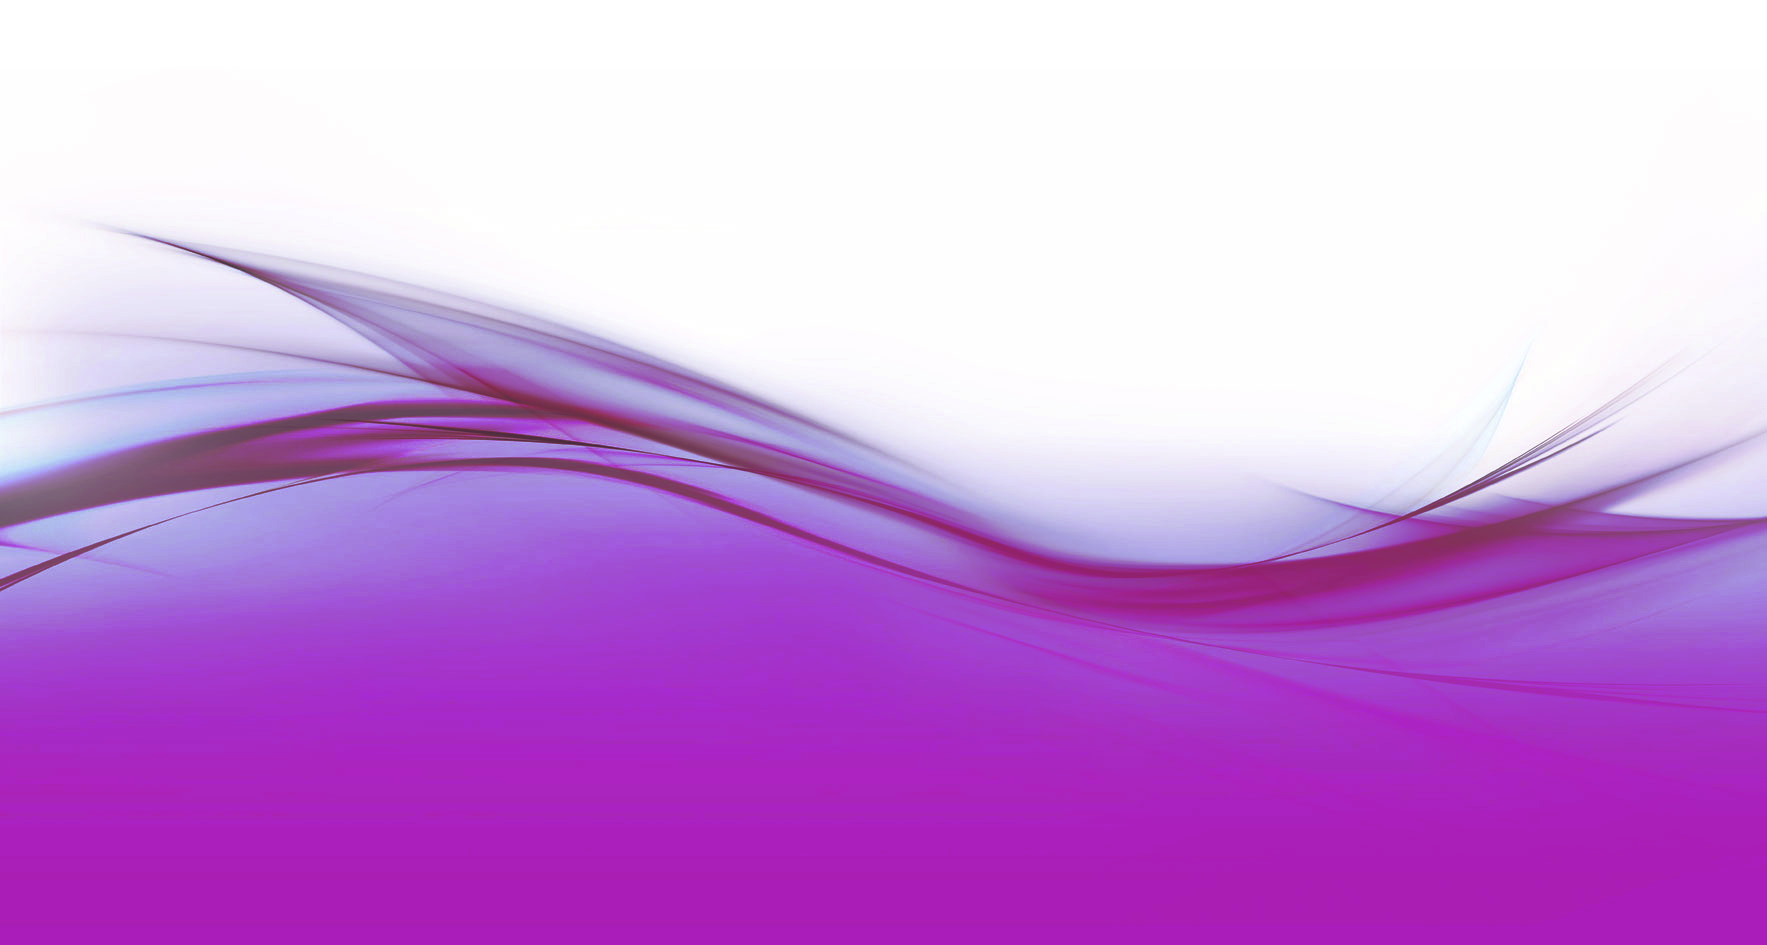
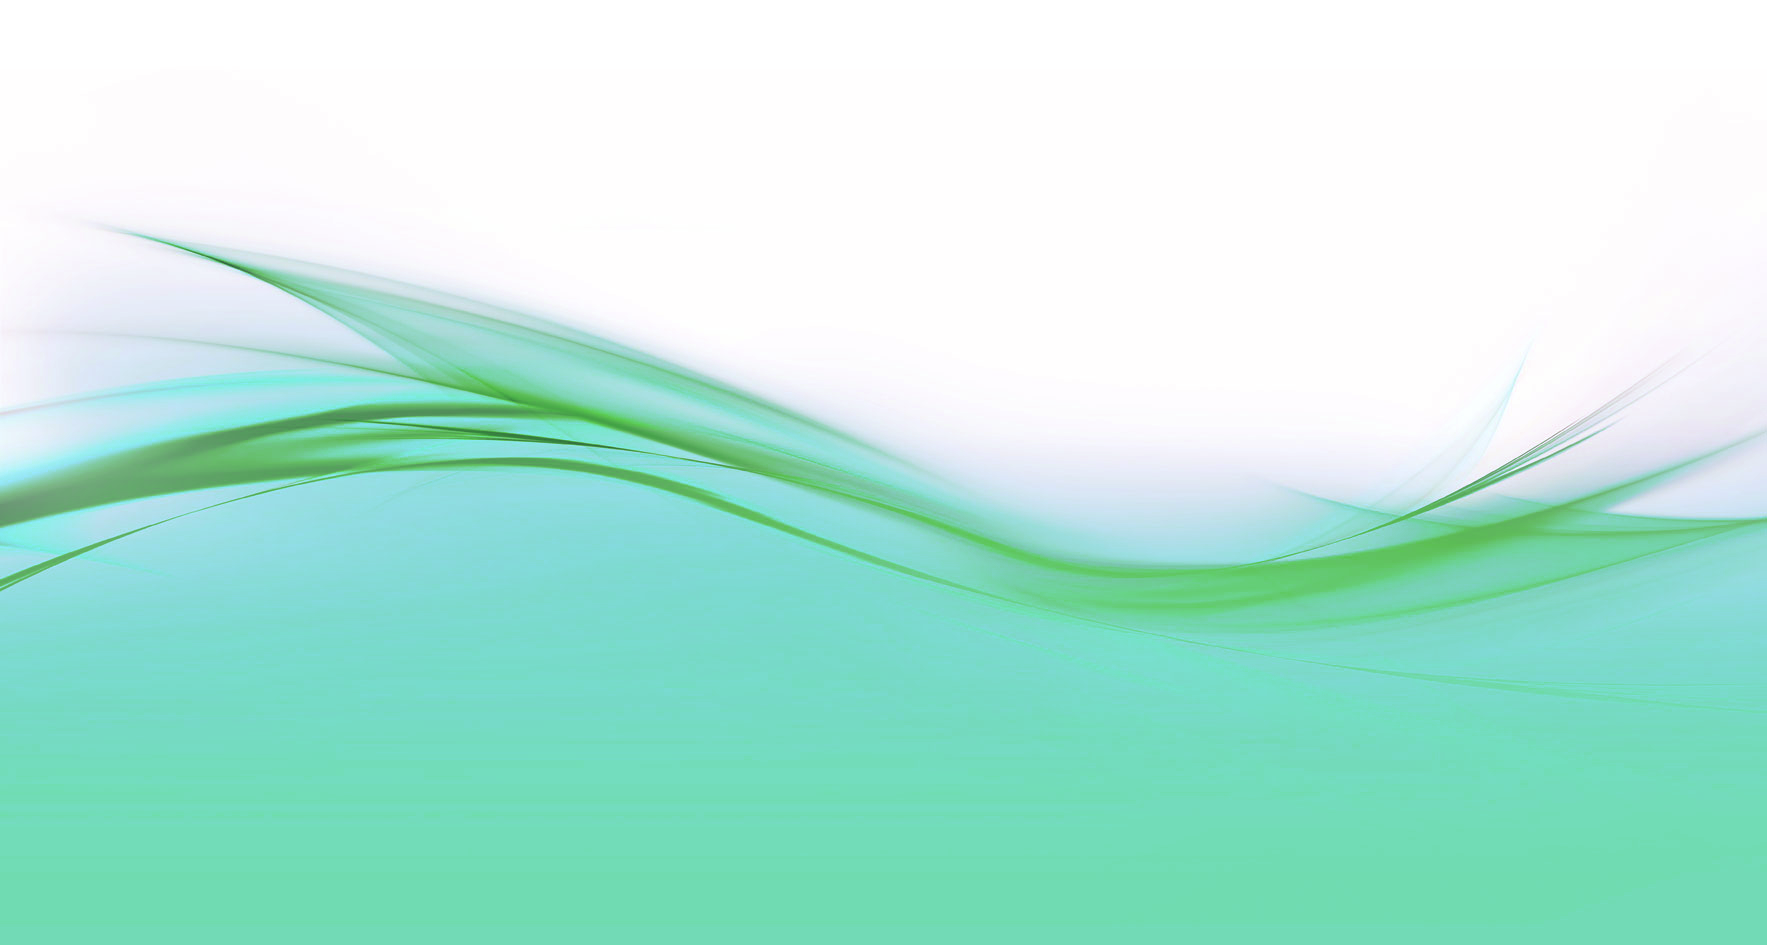
change color scheme to something a little better

diff --git a/mm_tictactoe/site_media/style.css b/mm_tictactoe/site_media/style.css
@@ -9,16 +9,16 @@ header {
         linear, 
         0% 0%, 
         0% 100%, 
-        from(#07476a), 
-        to(#07476a), 
-        color-stop(.5,#1B8EBA)
+        from(#367f3f), 
+        to(#367f3f), 
+        color-stop(.5,#4fb34b)
     );
 
     background-image:-moz-linear-gradient(
             top, 
-            #07476a,
-            #1B8EBA, 
-            #07476a);
+            #367f3f,
+            #4fb34b, 
+            #367f3f);
     filter: progid:DXImageTransform.Microsoft.gradient(startColorstr='#1B8EBA', endColorstr='#47b9dd');
     
     -webkit-box-sizing: border-box;
@@ -49,9 +49,9 @@ nav {
         );
     background-image:-moz-linear-gradient(
             top, 
-            #47b9dd, 
-            #8ad3e8,
-            #47b9dd);
+            #54b850, 
+            #6fce93,
+            #54b850);
     filter: progid:DXImageTransform.Microsoft.gradient(startColorstr='#aaaaaa', endColorstr='#07476a');
 }
 
